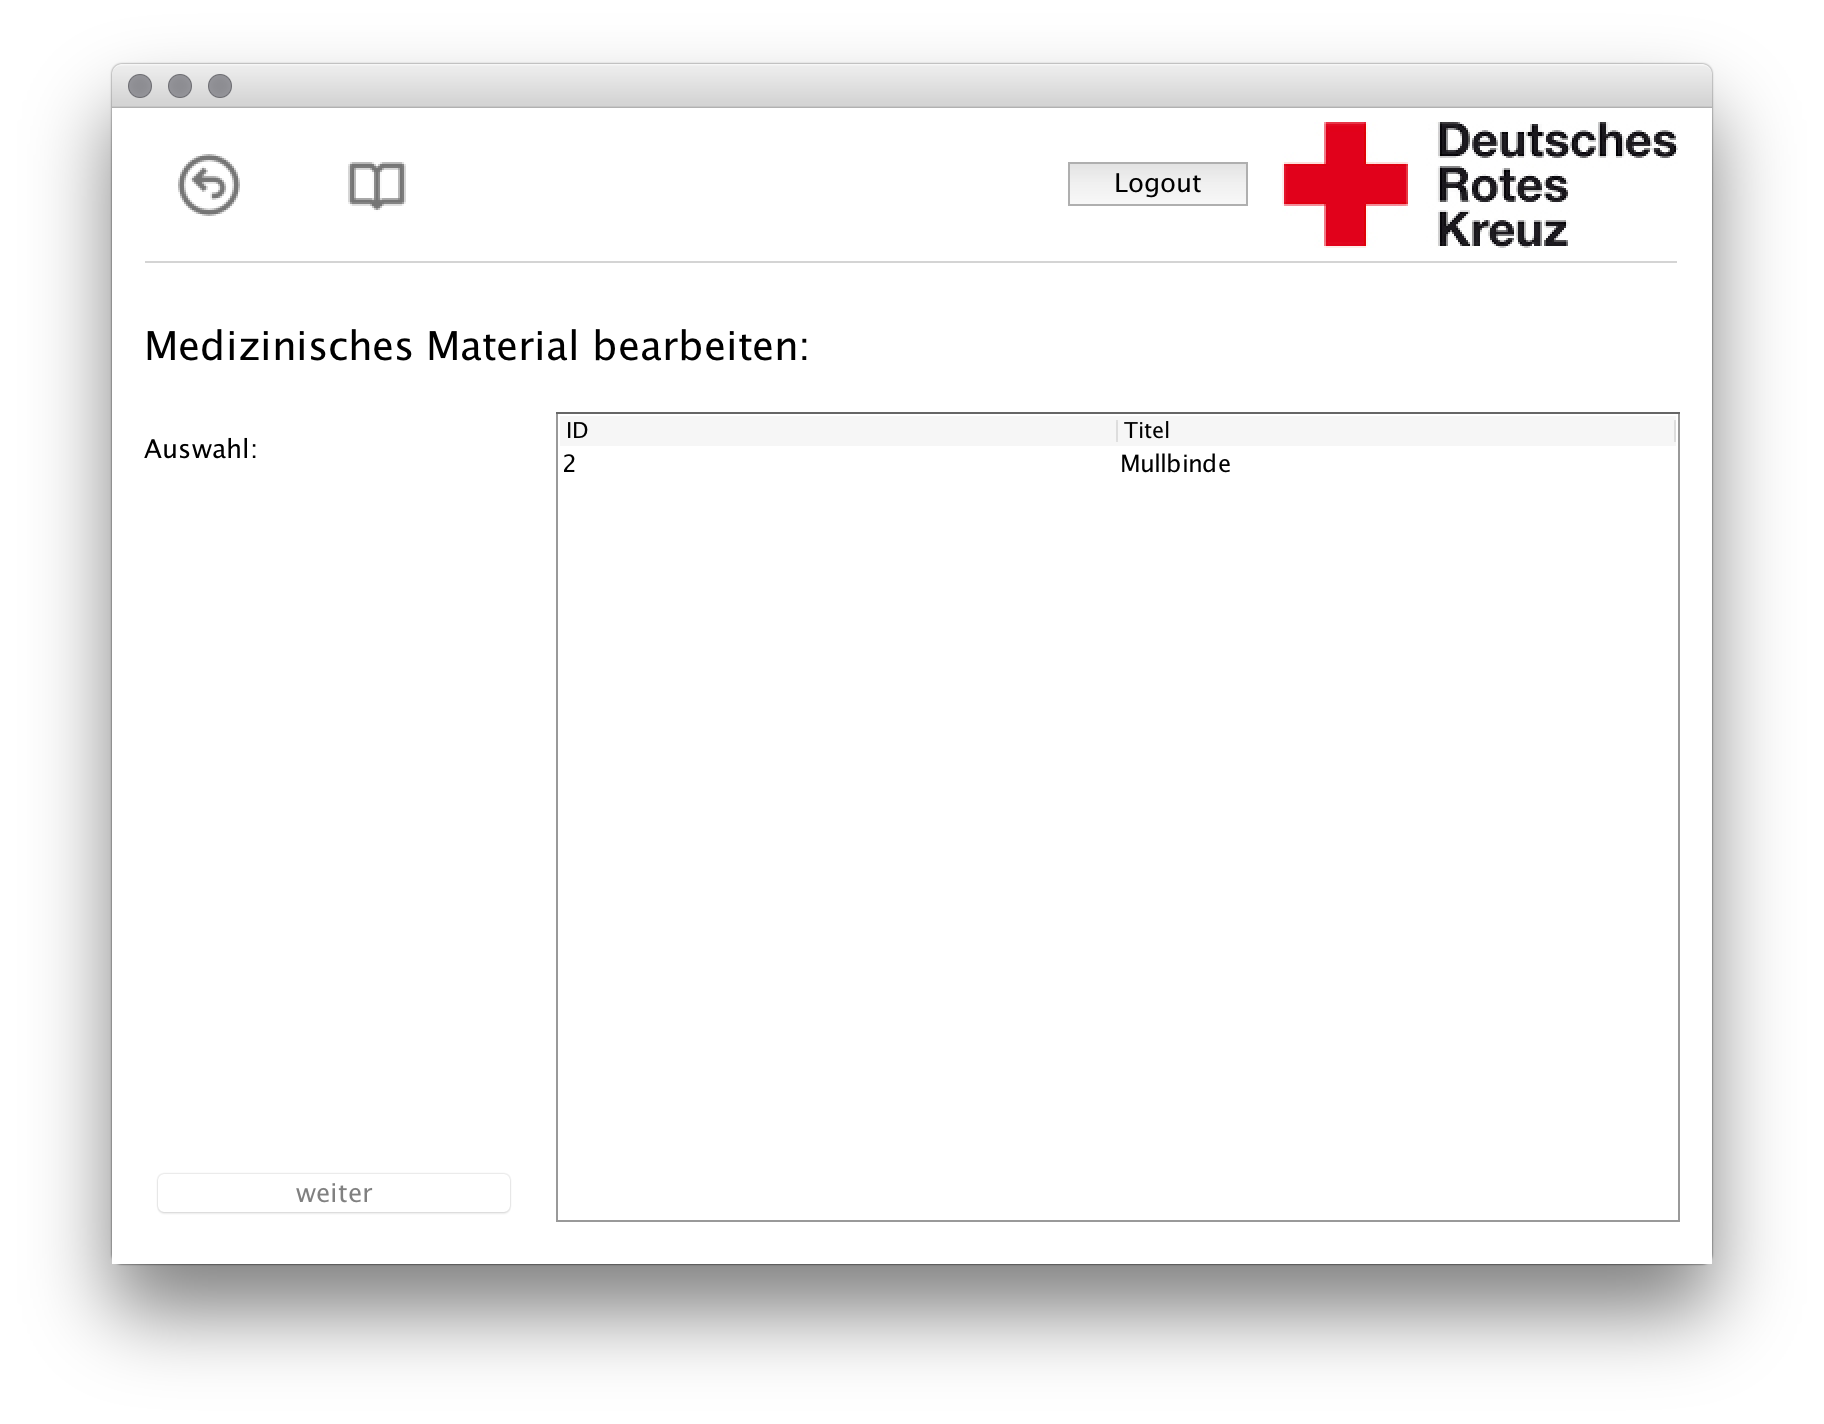
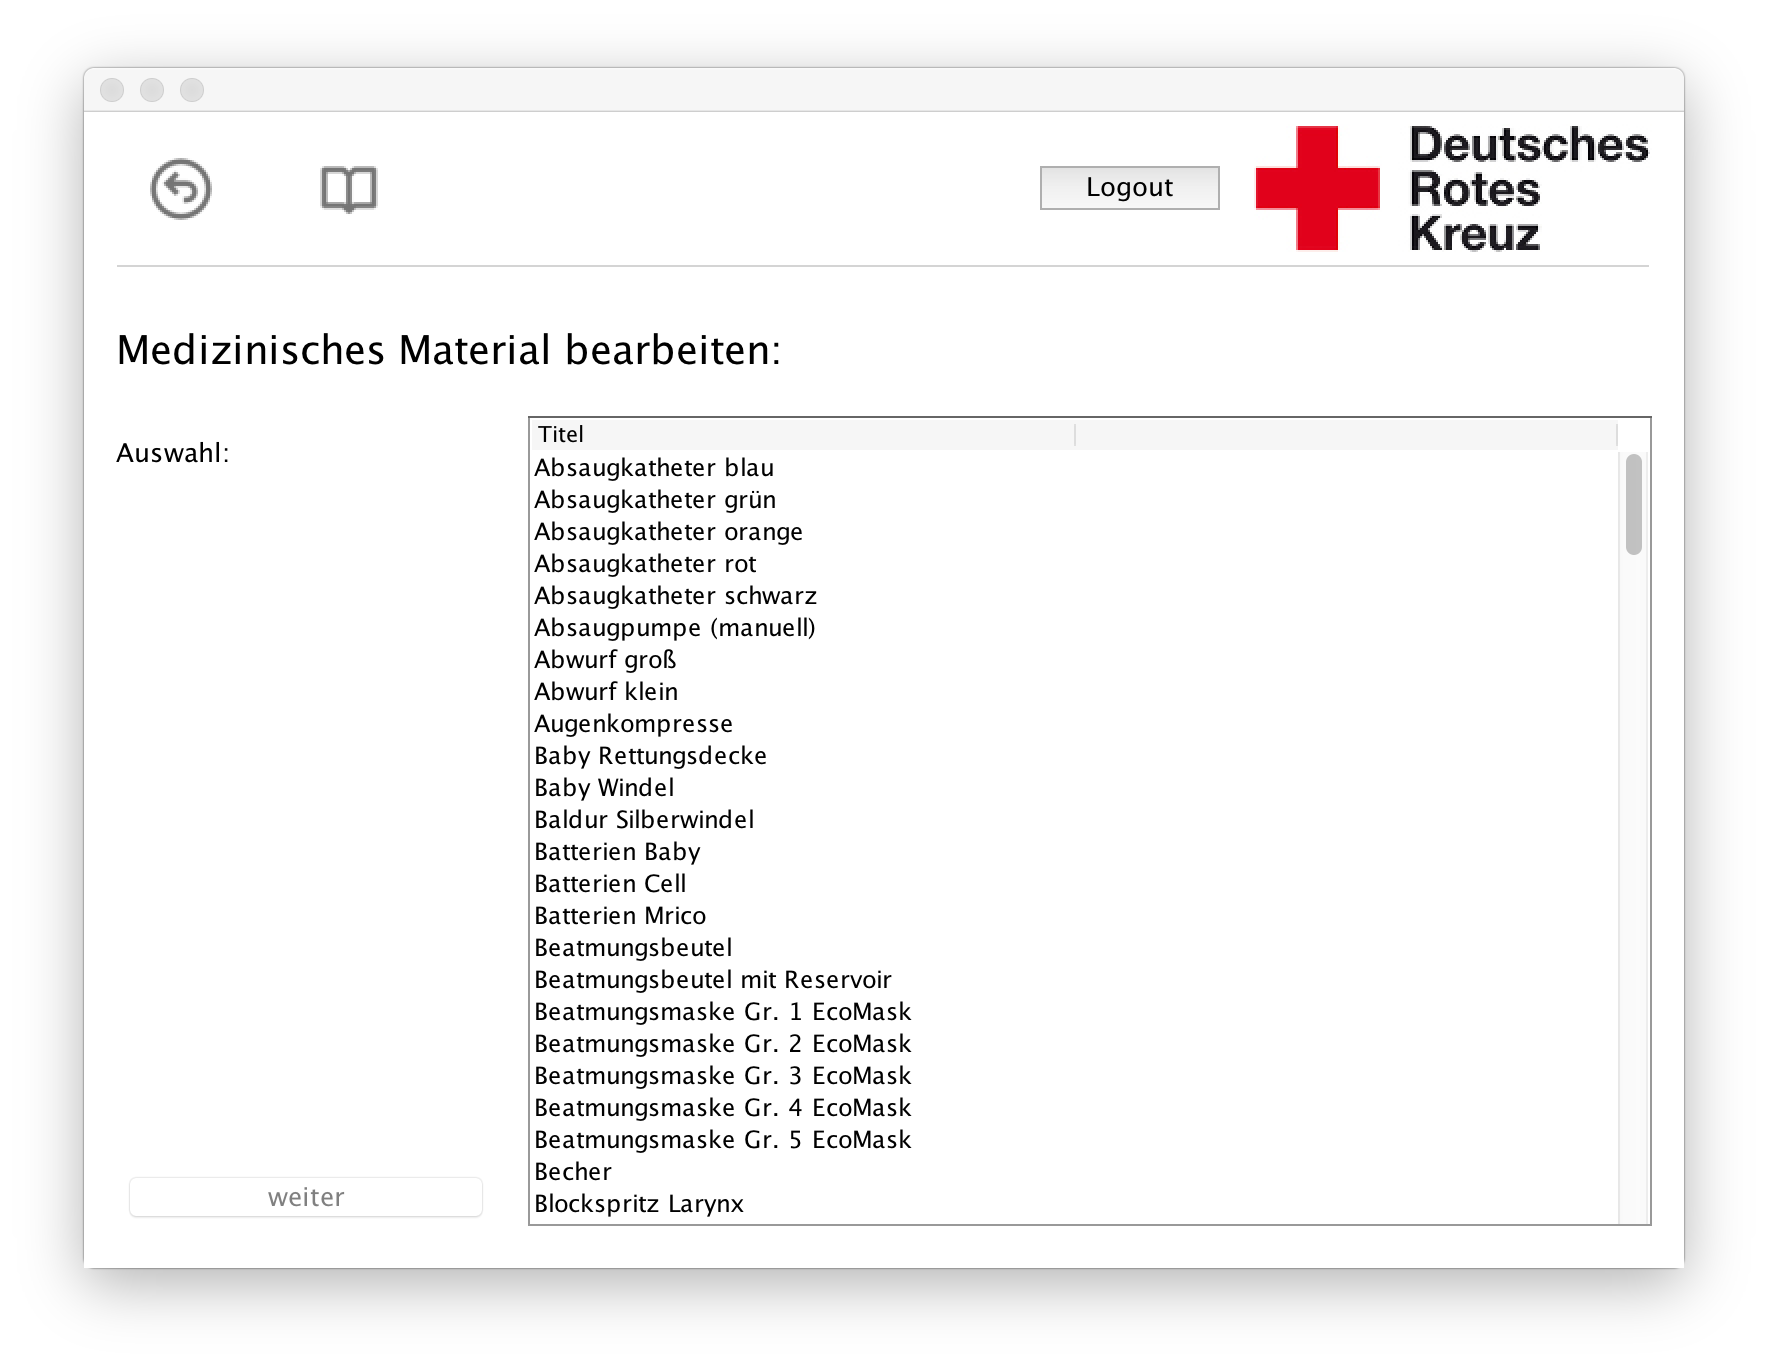
Screenshot updates for new UI Layout

Changed region(s): [[0.0311, 0.0307, 0.9644, 0.9518]]

diff --git a/source/stockManagement-desktop/src/model/databaseObjects/stockObjects/MedicalMaterial.java b/source/stockManagement-desktop/src/model/databaseObjects/stockObjects/MedicalMaterial.java
@@ -6,7 +6,7 @@ import model.databaseObjects.DatabaseObject;
  */
 public class MedicalMaterial extends Material {
 	
-	public MedicalMaterial(int id, String title, String description, DatabaseObject.StockObjectType type, int totalVolume, int batchSize) {
+	public MedicalMaterial( int id, String title, String description, DatabaseObject.StockObjectType type, int totalVolume, int batchSize ) {
 		super(id, title, description, type, totalVolume, batchSize);
 	}
 

diff --git a/source/stockManagement-desktop/src/presenter/data/ObjectEditPresenter.java b/source/stockManagement-desktop/src/presenter/data/ObjectEditPresenter.java
@@ -129,7 +129,7 @@ public class ObjectEditPresenter extends Presenter implements MouseListener {
 				columnNames = new Object[]{ "Titel", "MTK Intervall", "STK Intervall"};
 				break;
 			case medicalMaterialMenuItem:
-				columnNames = new Object[]{ "Titel"};
+				columnNames = new Object[]{ "Titel", "" };
 				break;
 			case consumableMaterialMenuItem:
 				columnNames = new Object[]{ "Titel"};
